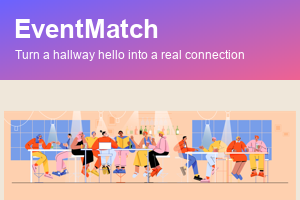
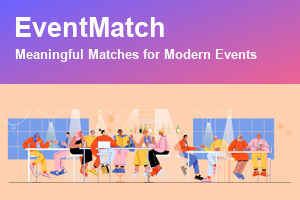
New slogan 'Meaningful Matches for Modern Events'; peach-bg project cover; form-ready submission text

diff --git a/SUBMISSION_FORM.md b/SUBMISSION_FORM.md
@@ -1,0 +1,82 @@
+# EventMatch 🤝 — *Meaningful Matches for Modern Events*
+
+**Short submission text (form‑ready). Full write‑up: [SUBMISSION.md](SUBMISSION.md).**
+
+🌐 Live: https://margaritasi.github.io/event-match/ · 💻 Code: https://github.com/MargaritaSI/event-match
+
+---
+
+### Framing the Problem
+*Who I am, what's the problem, who it affects.*
+
+I'm Margarita — an iOS developer and designer who goes to a lot of tech events. There are **so many
+events and so many different people**, and you only have a **short, limited time** to meet the ones
+who actually matter to you. In practice that's hard: you can't tell *who* you should talk to in a
+room of 50–400 people, conversations are rushed, and a week later you've forgotten who you met and
+why you wanted to follow up (we lose ~70% of new information within a day — the Ebbinghaus forgetting
+curve). It affects **attendees** (lost connections), but also **organisers, sponsors and speakers**,
+who have no shared way to turn a crowd into real, measurable relationships.
+
+### Idea Explanation
+*What the idea is and how it fixes the problem.*
+
+**EventMatch** is a mobile‑first (and desktop‑responsive) networking app that helps you meet the
+right people **efficiently, in the time you have**:
+- **Filter people by *your* interests** for the **chosen event**, so you instantly see who's worth
+  meeting (ranked by shared interests **+** concrete skills, with complementary intents like
+  *hiring ↔ open‑to‑work*).
+- A **matching + safe‑contact flow**: you **choose exactly what each person sees** of your contacts —
+  no long chat required, just connect and exchange.
+- **Ice‑breakers and "people magnets"** — prompts and coffee‑meetups that gather people in the spaces
+  **between sessions**.
+- **Tasks that email‑remind you** to reach out to someone you met — and you can **write a note on
+  their card** (who they are, what you talked about) so you never go blank later.
+
+That closes the whole loop: **discover → connect safely → capture the person & next step → get
+reminded → keep in touch.**
+
+### Implementation
+*How the pieces fit together; frontend/backend/database.*
+
+A **mobile‑first, desktop‑responsive SPA** built with **React + TypeScript + KendoReact** (Kendo UI
+components & theme), deployed live on **GitHub Pages** via GitHub Actions. All domain logic lives in
+pure, **unit‑tested TypeScript modules** (matching, intents, capture, schedule, gamification).
+
+**There is no backend — by design.** The frontend doesn't call a server; your profile, tasks and
+points are stored in the **browser's `localStorage`** (your "database" on‑device, with one‑tap
+delete). Real **person‑to‑person matching works without a server** by encoding your card into a
+**share link / QR (base64 in the URL)** — the other person opens it and connects. Sample attendees,
+incoming requests, sponsor lead counts and leaderboard peers are **seeded placeholders** that a
+backend would otherwise provide.
+
+### Challenges
+*What I struggled with and how I overcame it.*
+
+- **Scope, solo, one session.** I kept all logic in framework‑free modules so I could keep adding
+  features (skills, intents, dashboard, sponsors) without the UI collapsing.
+- **Real matching with no backend.** Two browsers can't see each other — I solved it with the
+  base64 **card‑in‑URL** share flow, and a "reveal only the contacts you choose" rule.
+- **A real React 19 StrictMode bug** where points doubled (I was awarding inside a state updater).
+  Fix: move side effects out of reducers.
+- **Mobile polish** — safe‑area header, overscroll edge colours, exact background tints, a 2‑level
+  grouped nav — took several iterations.
+
+### Accomplishments
+*What I learned and accomplished.*
+
+- Shipped a **real, deployed, live product** (not a local demo) with CI/CD on the first try.
+- A **complete networking loop** plus value for **attendees, organisers, sponsors and communities** in
+  one KendoReact app.
+- **Two‑device matching with zero backend** via the share‑link flow.
+- **55 passing unit tests** for the core logic — and a clean, branded, mobile‑first UI.
+- Learned KendoReact, hardened my TypeScript architecture, and shipped under real time pressure.
+
+### Next Steps
+*Where I'd take it.*
+
+- **A weekend:** add a thin **Supabase** backend so profiles, requests and the leaderboard sync **live
+  across devices**, replacing the seeded data and the share‑link workaround for big crowds.
+- **A month:** push notifications for requests/follow‑ups, organiser import of the real attendee list
+  & agenda, post‑event "who you met" summary + vCard export.
+- **A year:** native iOS/Android apps (the pure‑TS logic ports cleanly), Apple Wallet event badge,
+  full sponsor analytics, and communities that outlive the event.

diff --git a/README.md b/README.md
@@ -1,6 +1,6 @@
 # EventMatch 🤝
 
-> **Turn a hallway hello into a real connection.**
+> **Meaningful Matches for Modern Events.**
 > A mobile‑first networking companion for tech conferences & meetups — built with **KendoReact**.
 
 **🌐 Live:** https://margaritasi.github.io/event-match/ · **🎬 Demo video:** _(add link)_

diff --git a/SUBMISSION.md b/SUBMISSION.md
@@ -1,4 +1,4 @@
-# EventMatch 🤝 — *Turn a hallway hello into a real connection*
+# EventMatch 🤝 — *Meaningful Matches for Modern Events*
 
 > **Live demo:** https://margaritasi.github.io/event-match/
 > **Code:** https://github.com/MargaritaSI/event-match

diff --git a/VIDEO_SCRIPT.md b/VIDEO_SCRIPT.md
@@ -15,7 +15,7 @@ Speak ~10% slower than feels natural. Keep moving — don't linger on any screen
 > We forget most of the people we meet within a day — and networking is the whole reason we go.
 > I built **EventMatch** to fix that."
 
-*(On screen: app logo + tagline "Turn a hallway hello into a real connection.")*
+*(On screen: app logo + tagline "Meaningful Matches for Modern Events.")*
 
 ---
 